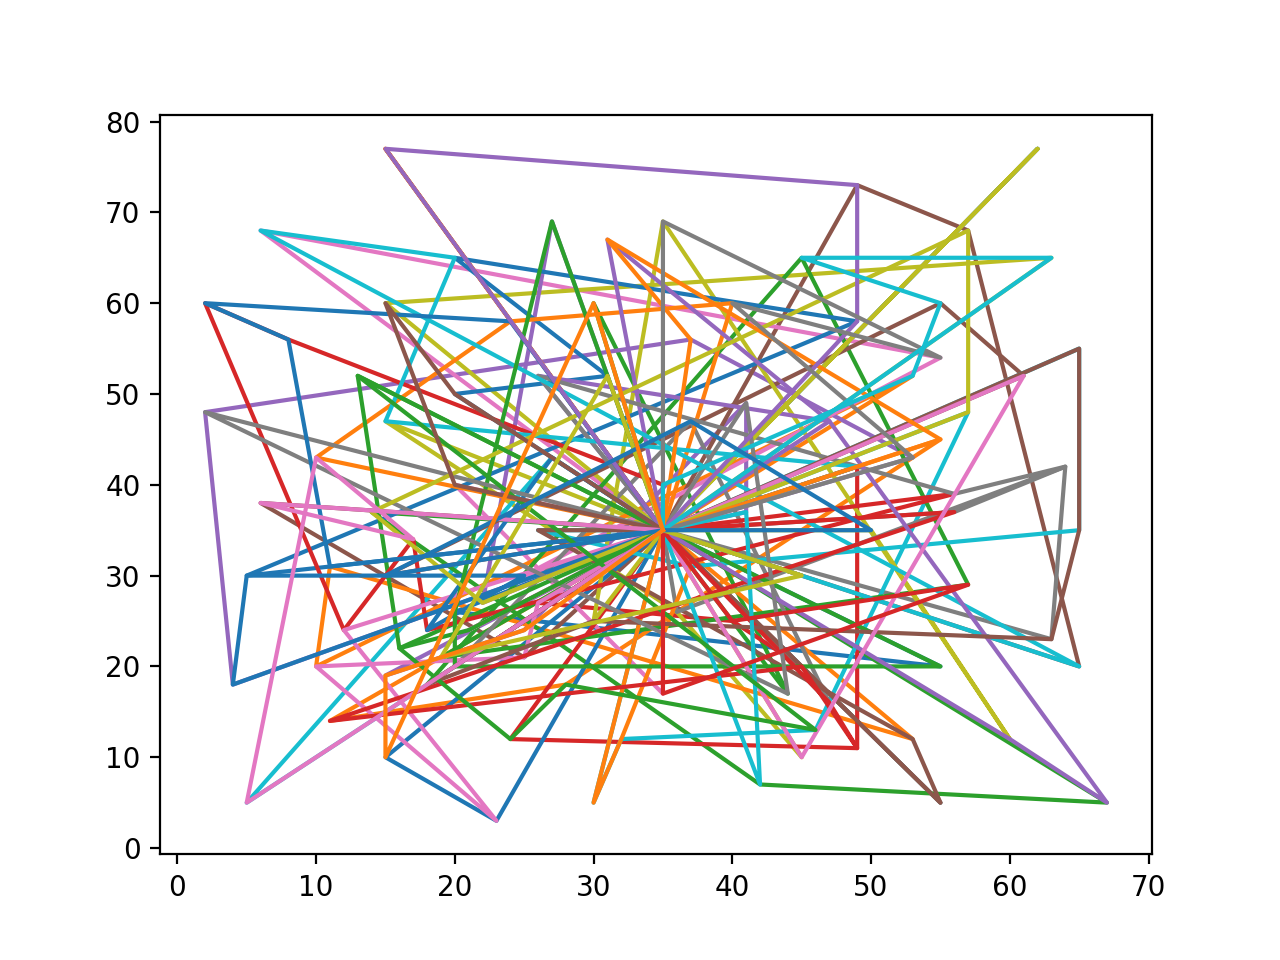
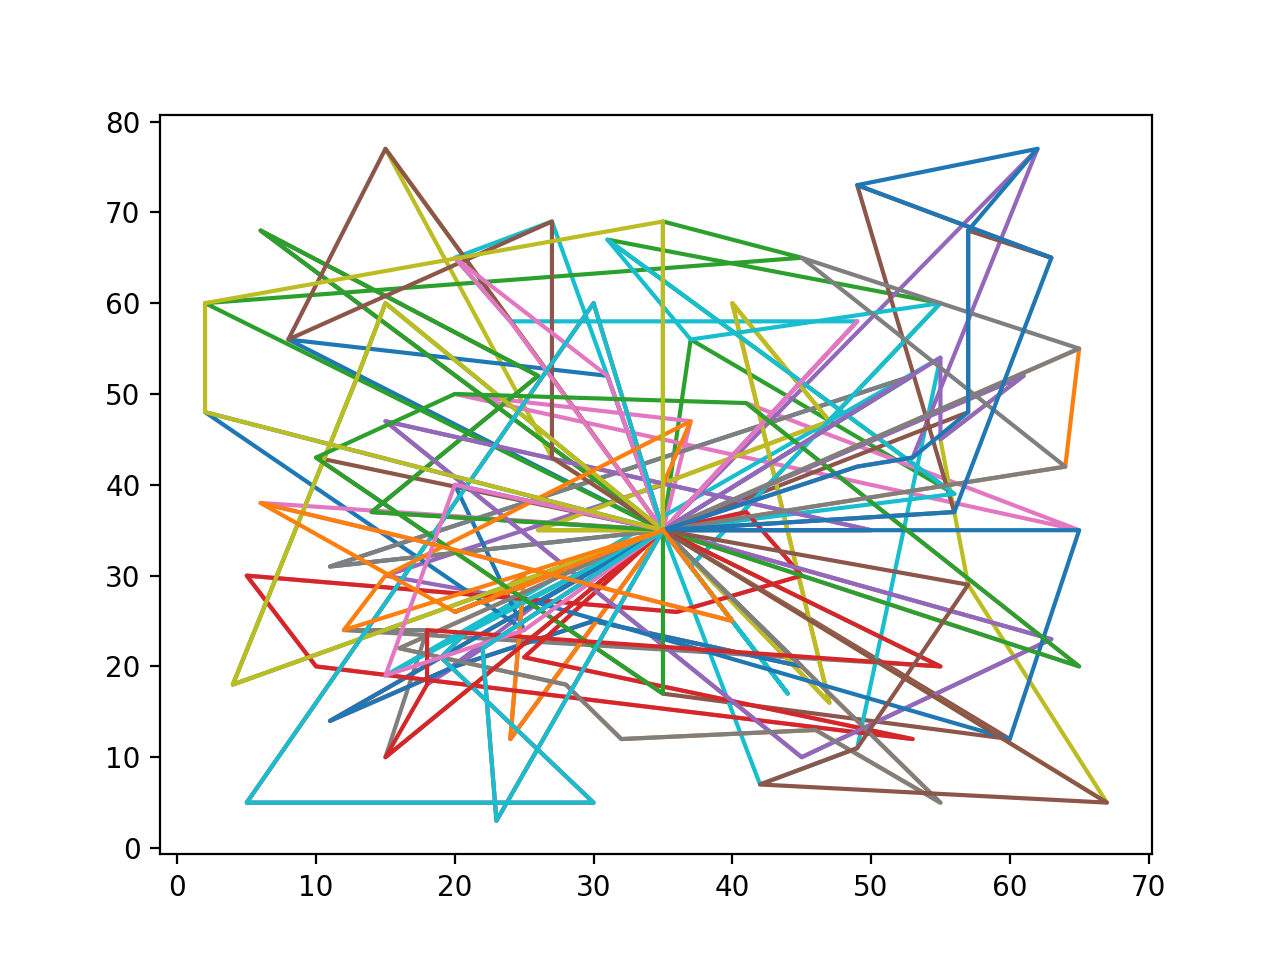
Report: Spreadsheet output added

Changed region(s): [[0.1562, 0.1562, 0.875, 0.875]]

diff --git a/population.py b/population.py
@@ -1,12 +1,12 @@
 import chromosome as chrome
+from report import Reporter
 import ga_params
 import utils
 
-import matplotlib.pyplot as plt
 from typing import List
 from random import shuffle
 from datetime import datetime
-import re
+import numpy as np
 
 
 class Chromosome(chrome.Chromosome):
@@ -16,7 +16,7 @@ class Chromosome(chrome.Chromosome):
 List_Chromosome = List[Chromosome]
 
 
-class Population:
+class Population(Reporter):
     generation = []     # type: List_Chromosome
     gen_index = 0   # type: int
     pop_size = None    # type: int
@@ -32,20 +32,21 @@ class Population:
     mutation_ratio = None
     genocide_ratio = 0
     # plot
-    plot_x_axis = []
-    plot_y_axis = []
+    x_axis = []
+    y_axis = []
+    gen_index_div = None    # type: int
     plot_x_div = None
     plot_x_window = None
     plot_fig = None
     plot_subplot = None
     chromosome_class = None
 
-    def __init__(self, pop_size: int, chromosome_width: int,
+    def __init__(self, pop_size: int, chromosome_width: int, run_file_name: str,
                  crossover_method: staticmethod, mutation_method: staticmethod,
                  removing_method: staticmethod, selection_method: staticmethod,
                  selection_pressure: int, selection_repeat: bool,
                  parent_selection_ratio: float, mutation_ratio: float,
-                 plot_x_div: int=100, plot_x_window: int=100):
+                 gen_index_div: int=50, plot_x_div: int=200, plot_x_window: int=400):
         self.pop_size = int(pop_size)
         self.chromosome_width = int(chromosome_width)
         self.chromosome_higher_value_fitter = Chromosome.higher_value_fitter
@@ -58,12 +59,11 @@ class Population:
         self.parent_selection_ratio = float(parent_selection_ratio)
         self.mutation_ratio = float(mutation_ratio)
         self.plot_x_div = int(plot_x_div)
+        self.gen_index_div = int(gen_index_div)
         self.plot_x_window = int(plot_x_window)
 
         self.generation = self.initial_generation()
-        plt.ion()
-        self.fig, self.subplot = plt.subplots()
-        self.fig_node_connector, self.subplot2 = plt.subplots()
+        super(Population, self).__init__(run_name=run_file_name)
 
     def initial_generation(self, init_size: int=None) -> List_Chromosome:
         if not init_size:
@@ -135,20 +135,39 @@ class Population:
     def evolve(self) -> Chromosome:
         process_timer_start = datetime.now()
         while self.gen_index < ga_params.MAX_GEN:
-            if self.gen_index % self.plot_x_div == 0:
+            if self.gen_index % self.gen_index_div == 0:
                 process_time = datetime.now() - process_timer_start
                 process_timer_start = datetime.now()
-                plot_process_timer_start = datetime.now()
-                self.plot_draw()
                 if ga_params.print_benchmarks:
-                    print('### Process time of ' + str(self.plot_x_div) + ' generation: '
+                    print('### Process time of ' + str(self.gen_index_div) + ' generation: '
                           + str(process_time))
-                    print('### Plot time: ' + str(datetime.now() - plot_process_timer_start))
+                self.report(process_time)
                 if self.genocide_ratio > 0 and min(self.generation).value == max(self.generation).value:
                     self.generation = self.genocide(self.generation)
             self.generation = self.next_gen()
             self.gen_index += 1
         return min(self.generation)
+
+    def report(self, process_time=None):
+
+        self.x_axis.append(self.gen_index)
+        self.y_axis.append({
+            'best': min(self.generation),
+            'worst': max(self.generation),
+            'average': sum(self.generation) / len(self.generation),
+            'std': np.std(self.generation),
+            'process_time': process_time
+        })
+        if self.gen_index % self.plot_x_div:
+            if ga_params.draw_plot:
+                plot_process_timer_start = datetime.now()
+                self.plot_draw(x_axis=self.x_axis, y_axis=self.y_axis, latest_result=min(self.generation))
+                if ga_params.print_benchmarks:
+                    print('### Plot time: ' + str(datetime.now() - plot_process_timer_start))
+            if ga_params.export_spreadsheet:
+                self.export_spreadsheet(x_axis=self.x_axis, y_axis=self.y_axis)
+            self.x_axis = []
+            self.y_axis = []
 
     def genocide(self, generation: List_Chromosome):
         new_gen_size = int(len(generation) * self.genocide_ratio)
@@ -159,28 +178,6 @@ class Population:
                                           reverse=(not self.chromosome_higher_value_fitter))
         new_gen = self.initial_generation(new_gen_size)
         return survivors + new_gen
-
-    def plot_draw(self):
-        plt.figure(1)
-        min_generation = min(self.generation)   # type: Chromosome
-        self.plot_x_axis.append(self.gen_index)
-        self.plot_y_axis.append(min_generation.value)
-        self.plot_x_axis = self.plot_x_axis[-self.plot_x_window:]
-        self.plot_y_axis = self.plot_y_axis[-self.plot_x_window:]
-        self.subplot.set_xlim([self.plot_x_axis[0], self.plot_x_axis[-1]])
-        self.subplot.set_ylim([min(self.plot_y_axis) - 5, max(self.plot_y_axis) + 5])
-        plt.suptitle('Best solution so far: ' + re.sub("(.{64})", "\\1\n", str(min_generation), 0, re.DOTALL),
-                     fontsize=10)
-        print(min_generation)
-        self.subplot.plot(self.plot_x_axis, self.plot_y_axis)
-
-        plt.figure(2)
-        for route_x, route_y in min_generation.plot_get_route_cords():
-            plt.plot(route_x, route_y)
-        plt.draw()
-        self.fig.savefig("plot-output.png")
-        self.fig_node_connector.savefig("plot2-output.png")
-        plt.pause(0.000001)
 
     def __str__(self):
         pop_str = "Generation:" + str(self.gen_index) + '\n'

diff --git a/report.py b/report.py
@@ -1,0 +1,72 @@
+import ga_params
+if ga_params.draw_plot:
+    import matplotlib.pyplot as plt
+if ga_params.export_spreadsheet:
+    from openpyxl import Workbook
+from datetime import datetime
+import re
+
+
+class Reporter:
+
+    plot_x_axis = []
+    plot_y_axis = []
+    sheet_wb = None
+    sheet_ws = None
+    sheet_dest = 'output'
+    sheet_dest_ext = '.xlsx'
+
+    def __init__(self, run_name: str):
+        if ga_params.draw_plot:
+            plt.ion()
+            self.fig, self.subplot = plt.subplots()
+            self.fig_node_connector, self.subplot2 = plt.subplots()
+        if ga_params.export_spreadsheet:
+            self.init_spreadsheet(run_name=run_name)
+
+    def plot_draw(self, x_axis: list, y_axis: list, latest_result):
+        y_axis_parsed = []
+        for y in y_axis:
+            try:
+                y_axis_parsed.append(y['best'])
+            except:
+                break
+        if y_axis_parsed:
+            y_axis = y_axis_parsed
+
+        plt.figure(1)
+        # self.subplot.set_xlim([self.plot_x_axis[0], self.plot_x_axis[-1]])
+        self.subplot.set_ylim([min(y_axis) - 5, max(y_axis) + 5])
+        plt.suptitle('Best solution so far: ' + re.sub("(.{64})", "\\1\n", str(latest_result), 0, re.DOTALL),
+                     fontsize=10)
+        print(latest_result)
+        self.subplot.plot(x_axis, y_axis)
+
+        plt.figure(2)
+        for route_x, route_y in latest_result.plot_get_route_cords():
+            plt.plot(route_x, route_y)
+
+        plt.draw()
+        self.fig.savefig("plot-output.png")
+        self.fig_node_connector.savefig("plot2-output.png")
+        plt.pause(0.000001)
+
+    def init_spreadsheet(self, run_name: str):
+        datetime_str = datetime.now().strftime('%b%d-%H:%M')
+        # datetime_str = '1'
+        self.sheet_dest = self.sheet_dest + '_' + run_name + '_' + datetime_str + self.sheet_dest_ext
+        self.sheet_wb = Workbook()
+        self.sheet_ws = self.sheet_wb.active
+        self.sheet_ws.append(['gen_index', 'best', 'average', 'std', 'worst', 'created_time', 'computation_time',
+                              'best_route'])
+
+    def export_spreadsheet(self, x_axis: list, y_axis: list):
+
+        datetime_str = str(datetime.now())
+        
+        for x, y in zip(x_axis, y_axis):
+            self.sheet_ws.append([x, y['best'].value, y['average'], y['std'], y['worst'].value, datetime_str,
+                                  str(y['process_time']), str(y['best'].route)])
+
+        # Save the file
+        self.sheet_wb.save(filename=self.sheet_dest)

diff --git a/evolver.py b/evolver.py
@@ -19,8 +19,12 @@ class Chromosome(BaseChromosome):
 
 population.Chromosome = Chromosome
 
+run_file_name = input("Enter run file name [default: C101_200]: ")
+if not run_file_name:
+    run_file_name = ga_params.run_file['name']
+print('Running: "' + run_file_name + '"')
 
-customers_input_read = csv_read(ga_params.run_file['name'], header_map=ga_params.run_file['header_map'])
+customers_input_read = csv_read(run_file_name, header_map=ga_params.run_file['header_map'])
 customers = [Deport(**customers_input_read[0])]
 customers += [Customer(**customer_dict) for customer_dict in customers_input_read]
 # for c in customers:
@@ -30,7 +34,7 @@ customers += [Customer(**customer_dict) for customer_dict in customers_input_rea
 customers_distance_table = CustomerDistanceTable(customers)
 # print(str(customers_distance_table))
 
-ga_pop = population.Population(chromosome_width=len(customers), **ga_params.population)
+ga_pop = population.Population(chromosome_width=len(customers), run_file_name=run_file_name, **ga_params.population)
 # print(str(ga_pop))
 best_chrome = ga_pop.evolve()
 print(best_chrome)

diff --git a/chromosome.py b/chromosome.py
@@ -158,6 +158,18 @@ class Chromosome:
     def __eq__(self, other):
         return self.value == other.value
 
+    def __radd__(self, other):
+        return self.value + other
+
+    def __add__(self, other):
+        return self.value + other
+
+    def __sub__(self, other):
+        return self.value - other
+
+    def __float__(self):
+        return float(self.value)
+
     def __str__(self):
         return str(self.route) + ", value= " + str(self.value) + ", vehicles_count= " + str(self.vehicles_count) \
                + ", total deport visits=" + str(self.route_rounds) \

diff --git a/ga_params.py b/ga_params.py
@@ -3,6 +3,8 @@ from selections import selection_tournament_deterministic
 from mutations import mutation_inversion, mutation_scramble
 
 print_benchmarks = True
+draw_plot = False
+export_spreadsheet = True
 
 MAX_GEN = 500000
 
@@ -12,7 +14,7 @@ vehicle_capacity = 200
 vehicles_count_over_deport_hours_preference = 1000
 
 run_file = {
-    'name': 'R101_200',
+    'name': 'C101_200',
     'header_map': {
         'XCOORD': 'x_coordinates',
         'YCOORD': 'y_coordinates',
